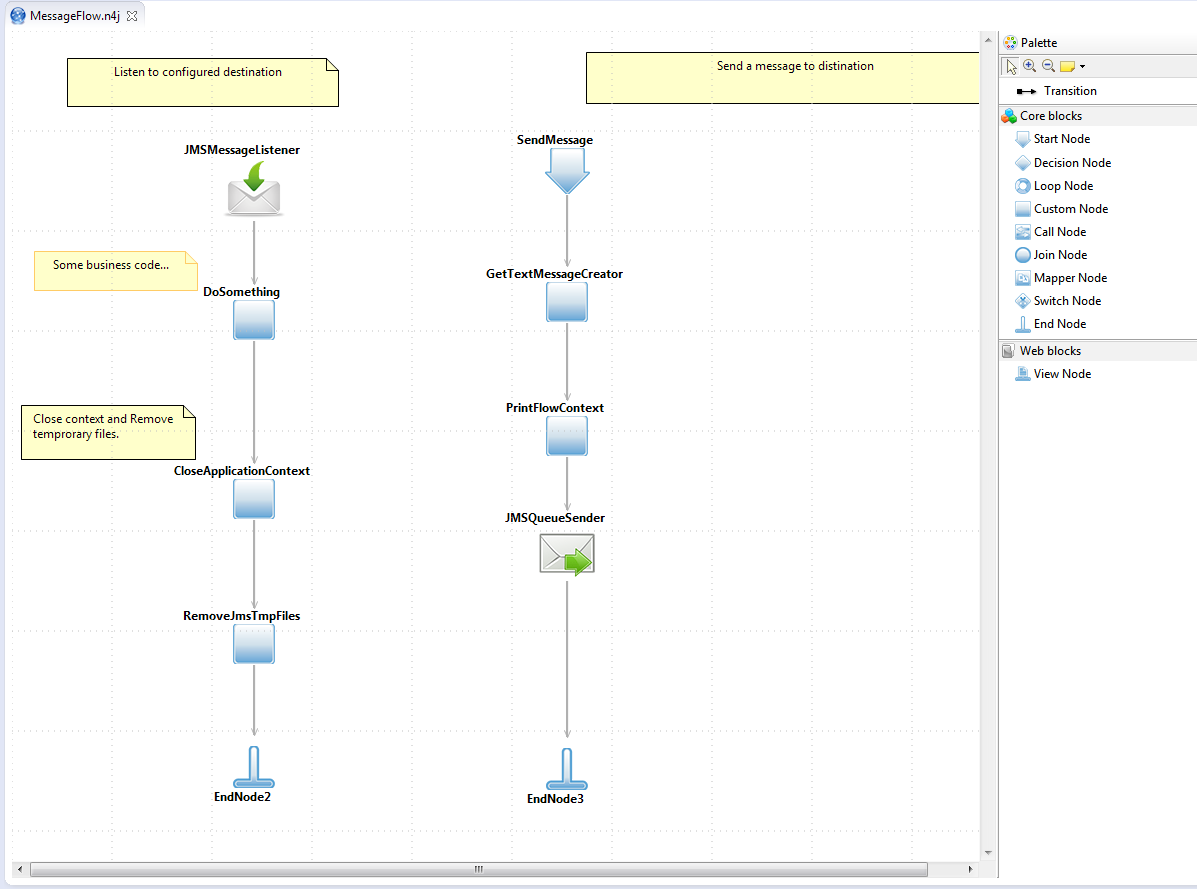
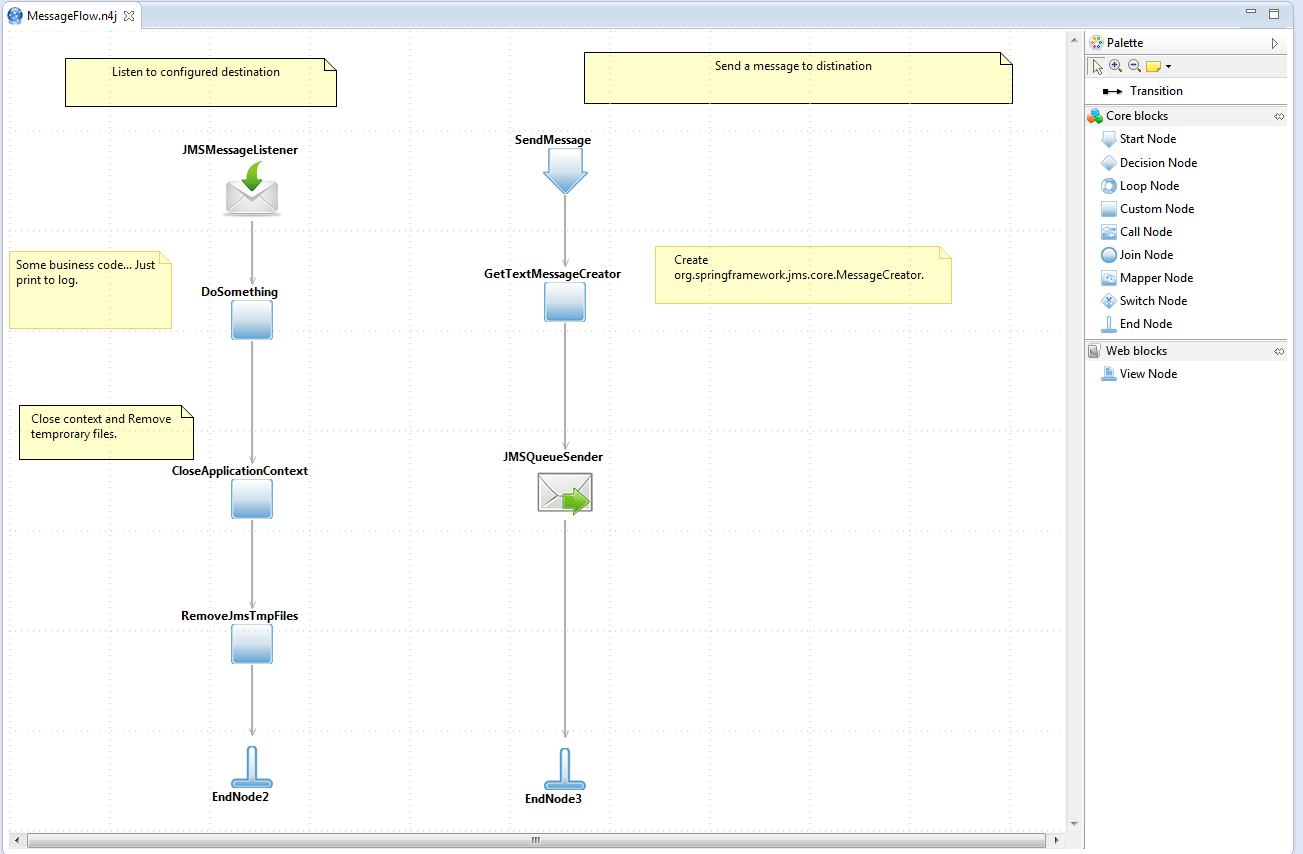
updated files for jms tutorial

diff --git a/tutorials/SpringJmsExample/src/main/java/org/neuro4j/springframework/jms/example/DoSomething.java b/tutorials/SpringJmsExample/src/main/java/org/neuro4j/springframework/jms/example/DoSomething.java
@@ -1,44 +1,28 @@
 package org.neuro4j.springframework.jms.example;
 
+import static org.neuro4j.springframework.jms.example.DoSomething.IN_MESSAGE;
 
 import javax.jms.Message;
 
 import org.neuro4j.workflow.FlowContext;
 import org.neuro4j.workflow.common.FlowExecutionException;
-import org.neuro4j.workflow.common.FlowInitializationException;
 import org.neuro4j.workflow.common.ParameterDefinition;
 import org.neuro4j.workflow.common.ParameterDefinitionList;
 import org.neuro4j.workflow.log.Logger;
 import org.neuro4j.workflow.node.CustomBlock;
 
-import static org.neuro4j.springframework.jms.example.DoSomething.*;
-
-@ParameterDefinitionList(input={
-                                	@ParameterDefinition(name=IN_MESSAGE, isOptional=true, type= "javax.jms.Message")},
-                         output={
-                         	        })	
+@ParameterDefinitionList(input = { @ParameterDefinition(name = IN_MESSAGE, isOptional = true, type = "javax.jms.Message") }, output = {})
 public class DoSomething extends CustomBlock {
-    
-    static final String IN_MESSAGE = "message";
-      
-    
-    
-    
-    public int execute(FlowContext ctx) throws FlowExecutionException {
-		
-    	Message message = (Message) ctx.get(IN_MESSAGE);
-        
-		
-    	Logger.info(this, "Working with message {}", message);
-		
-		
+
+	static final String IN_MESSAGE = "message";
+
+	public int execute(FlowContext ctx) throws FlowExecutionException {
+
+		Message message = (Message) ctx.get(IN_MESSAGE);
+
+		Logger.info(this, "Working with message {}", message);
+
 		return NEXT;
 	}
-	
-	
-	public void init() throws FlowInitializationException{
-		super.init();
-	}
-	
 
 }

diff --git a/tutorials/SpringJmsExample/src/main/java/org/neuro4j/springframework/jms/example/RemoveJmsTmpFiles.java b/tutorials/SpringJmsExample/src/main/java/org/neuro4j/springframework/jms/example/RemoveJmsTmpFiles.java
@@ -1,6 +1,5 @@
 package org.neuro4j.springframework.jms.example;
 
-
 import java.io.File;
 
 import org.neuro4j.workflow.FlowContext;
@@ -11,26 +10,16 @@ import org.springframework.util.FileSystemUtils;
 
 /**
  * Remove tmp files.
- *
+ * 
  */
-@ParameterDefinitionList(input={
-                                	},
-                         output={
-                         	        })	
+@ParameterDefinitionList(input = {}, output = {})
 public class RemoveJmsTmpFiles extends CustomBlock {
-    
-      
-    
-    
-    
-    public int execute(FlowContext ctx) throws FlowExecutionException {
-		
-		
-       FileSystemUtils.deleteRecursively(new File("activemq-data"));
-	
+
+	public int execute(FlowContext ctx) throws FlowExecutionException {
+
+		FileSystemUtils.deleteRecursively(new File("activemq-data"));
+
 		return NEXT;
 	}
-	
-
 
 }

diff --git a/tutorials/SpringJmsExample/src/main/java/org/neuro4j/springframework/jms/example/Application.java b/tutorials/SpringJmsExample/src/main/java/org/neuro4j/springframework/jms/example/Application.java
@@ -60,16 +60,15 @@ public class Application {
     }
 
     public static void main(String[] args) {
-        // Clean out any ActiveMQ data from a previous run
+
         FileSystemUtils.deleteRecursively(new File("activemq-data"));
 
-        // Launch the application
         ConfigurableApplicationContext context = SpringApplication.run(Application.class, args);
         
         Map<String, Object> parameters = new HashMap<String, Object>();
-        parameters.put("messageDestination", mailboxDestination);
         
-
+        parameters.put("messageDestination", mailboxDestination);
+        parameters.put("message", "Hi Mister!");      
         
         WorkflowEngine.run("org.neuro4j.springframework.jms.flows.MessageFlow-SendMessage", parameters);
 
